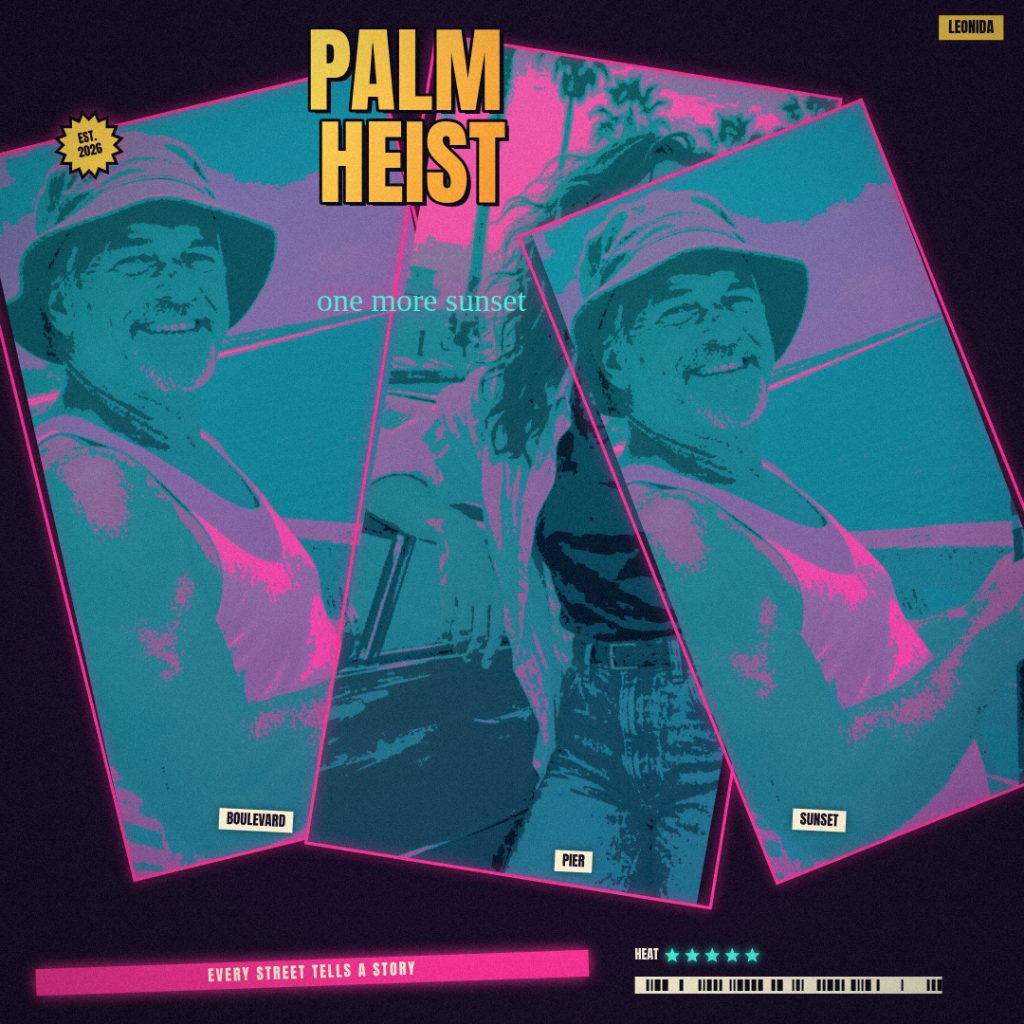
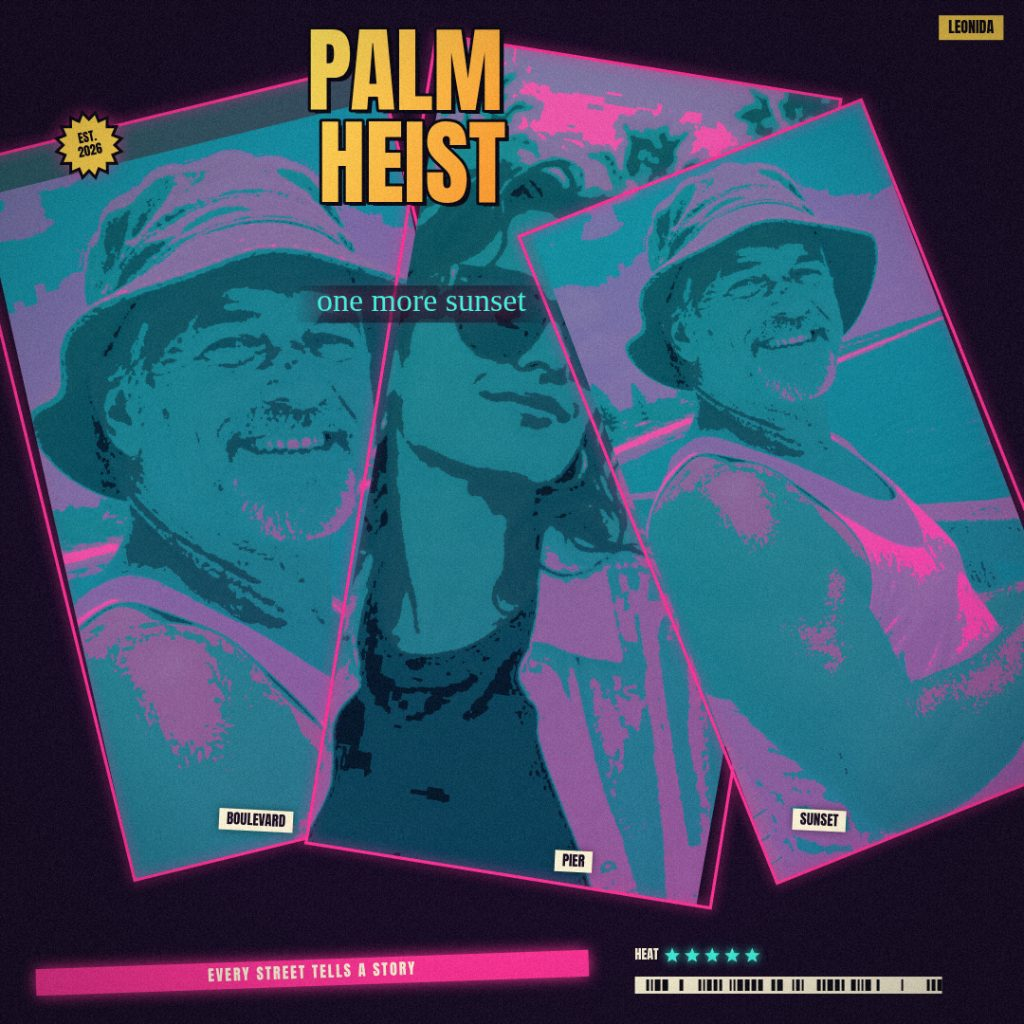
Fix cropped faces + subtitle scrim
- shots.js: per-shot panel crop overrides via ?crops=i:ox,oy,zoom
- shots.json shot 1: top-right small panel (pier) focal point on the
  man's face (crop 1:0.41,1.92,1) instead of shoulder/rod/water
- shots.json shot 4: middle panel (boulevard) reframed to the woman's
  face (crop 1:-0.97,1,1.8); left pier panel tight face (zoom 1.5),
  right pier panel wide (zoom 1) so the two pier crops differ clearly
- cover.js: soft dark scrim (horizontal gradient) behind the script
  subtitle so 'one more sunset' stays readable over busy photos
- re-shot all 4 screenshots, no console errors

diff --git a/app/src/cover.js b/app/src/cover.js
@@ -403,11 +403,27 @@ function paintTitleBlock(ctx, state, zone, W, H, reserve) {
   // Script subtitle tucked under the title, cyan with a magenta glow.
   if (state.subtitle.trim()) {
     const subSize = Math.round(Math.max(30, size * 0.34));
+    const subText = state.subtitle.trim();
+    const subX = zone.x + size * 0.1;
+    const subY = y + subSize * 0.55;
     ctx.font = `${subSize}px Pacifico, cursive`;
+    // Soft dark scrim behind the script so it stays readable where it sits
+    // over a busy photo; horizontal gradient fades out at both ends.
+    const subW = ctx.measureText(subText).width;
+    const padX = subSize * 0.7;
+    const scrim = ctx.createLinearGradient(subX - padX, 0, subX + subW + padX, 0);
+    scrim.addColorStop(0, 'rgba(5,3,15,0)');
+    scrim.addColorStop(0.18, 'rgba(5,3,15,0.55)');
+    scrim.addColorStop(0.82, 'rgba(5,3,15,0.55)');
+    scrim.addColorStop(1, 'rgba(5,3,15,0)');
+    ctx.save();
+    ctx.fillStyle = scrim;
+    ctx.fillRect(subX - padX, subY - subSize * 0.8, subW + padX * 2, subSize * 1.15);
+    ctx.restore();
     ctx.fillStyle = '#3FF6E0';
     ctx.shadowColor = '#FF2E93';
     ctx.shadowBlur = 22;
-    ctx.fillText(state.subtitle.trim(), zone.x + size * 0.1, y + subSize * 0.55);
+    ctx.fillText(subText, subX, subY);
     ctx.shadowBlur = 0;
     y += subSize;
   }

diff --git a/app/src/shots.js b/app/src/shots.js
@@ -38,6 +38,22 @@ export async function runShot(shot, query, state) {
   state.photos[2] = first;
   state.photos[3] = second;
 
+  // Per-panel crop overrides for this shot only, so a face that the default
+  // cover-fit would cut off can be pulled back into frame:
+  // `crops=1:0.41,1.92,1;2:0,0,1.5` means panel 1 -> {ox,oy,zoom}, etc.
+  // Panels are indexed by panel-rect order, the same order renderCover uses.
+  const cropsParam = query.get('crops');
+  if (cropsParam) {
+    for (const part of cropsParam.split(';')) {
+      const [idxStr, vals] = part.split(':');
+      const nums = (vals || '').split(',').map(Number);
+      const i = Number(idxStr);
+      if (Number.isInteger(i) && state.panels[i] && nums.length === 3 && nums.every(Number.isFinite)) {
+        state.panels[i].crop = { ox: nums[0], oy: nums[1], zoom: nums[2] };
+      }
+    }
+  }
+
   if (shot === 'cover') {
     document.body.classList.add('shot-cover');
     setCoverSize(canvas, query.get('size'));
